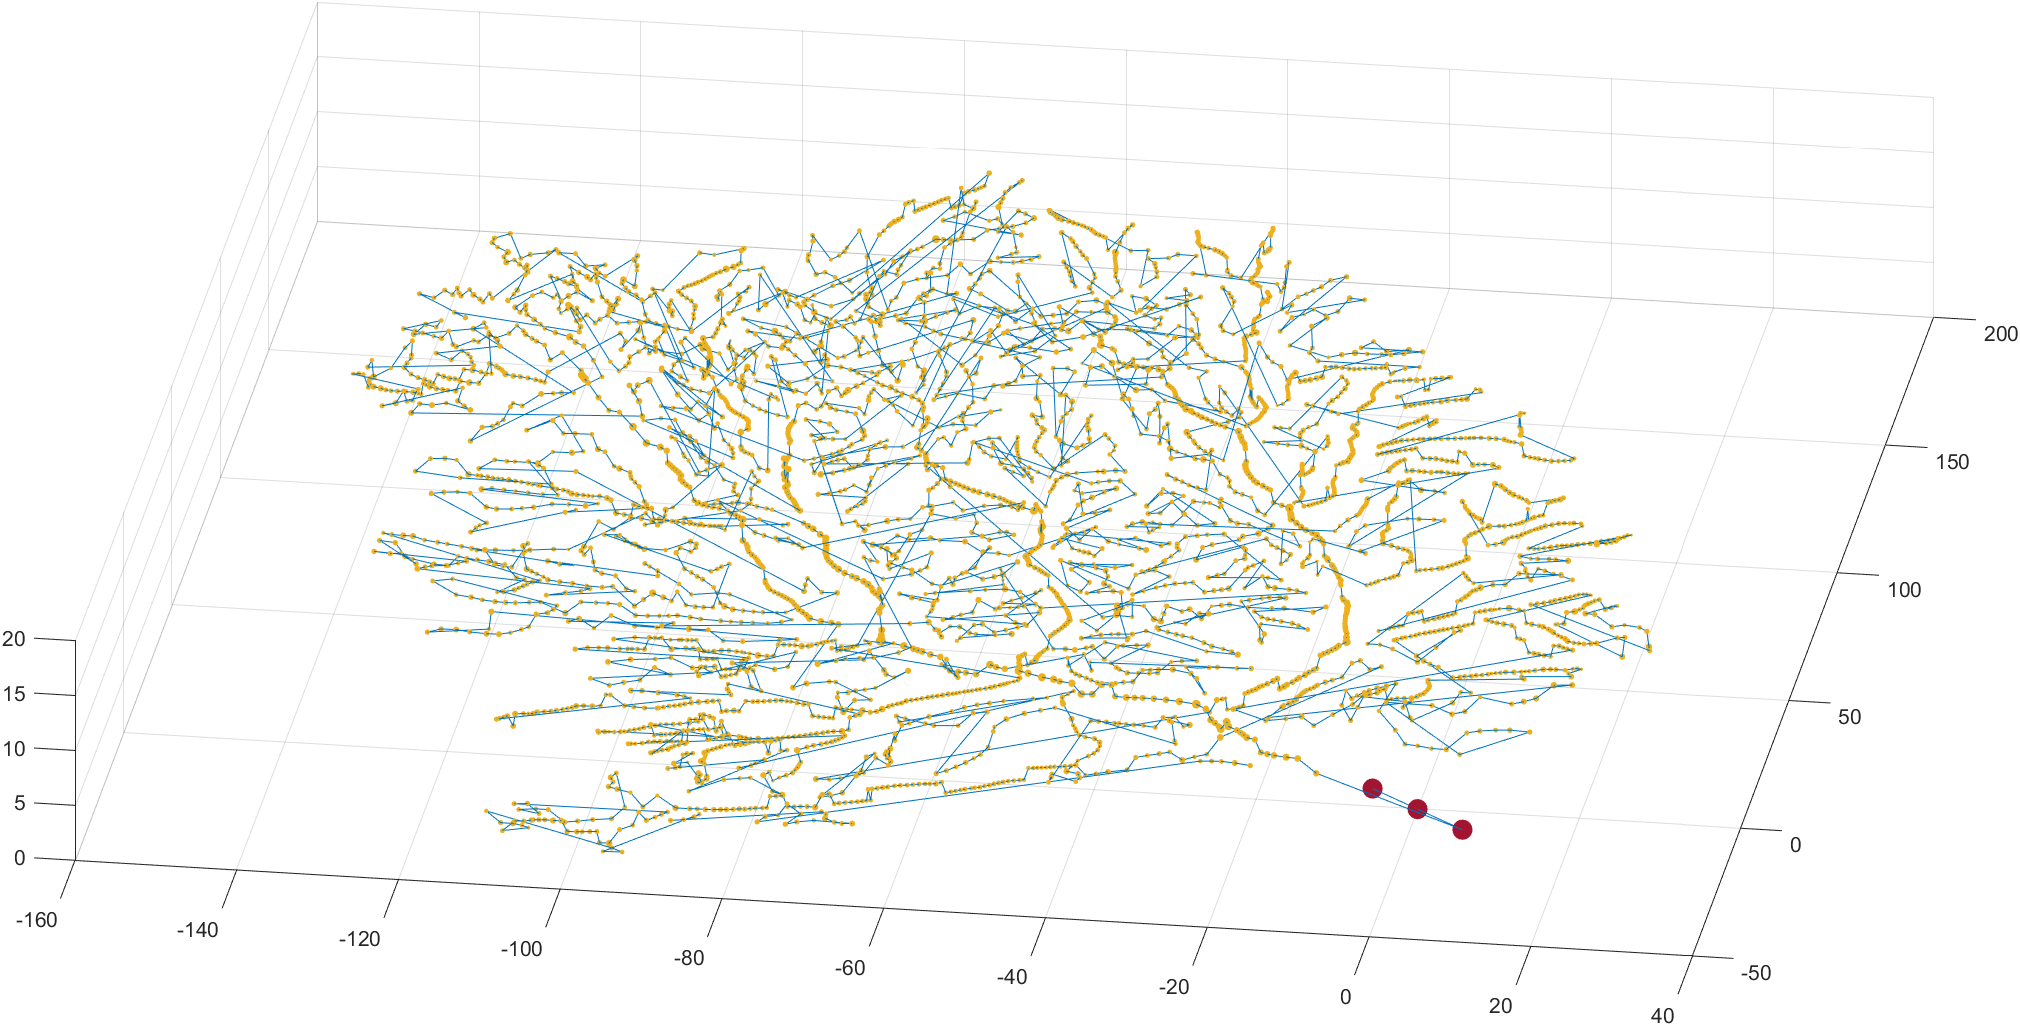
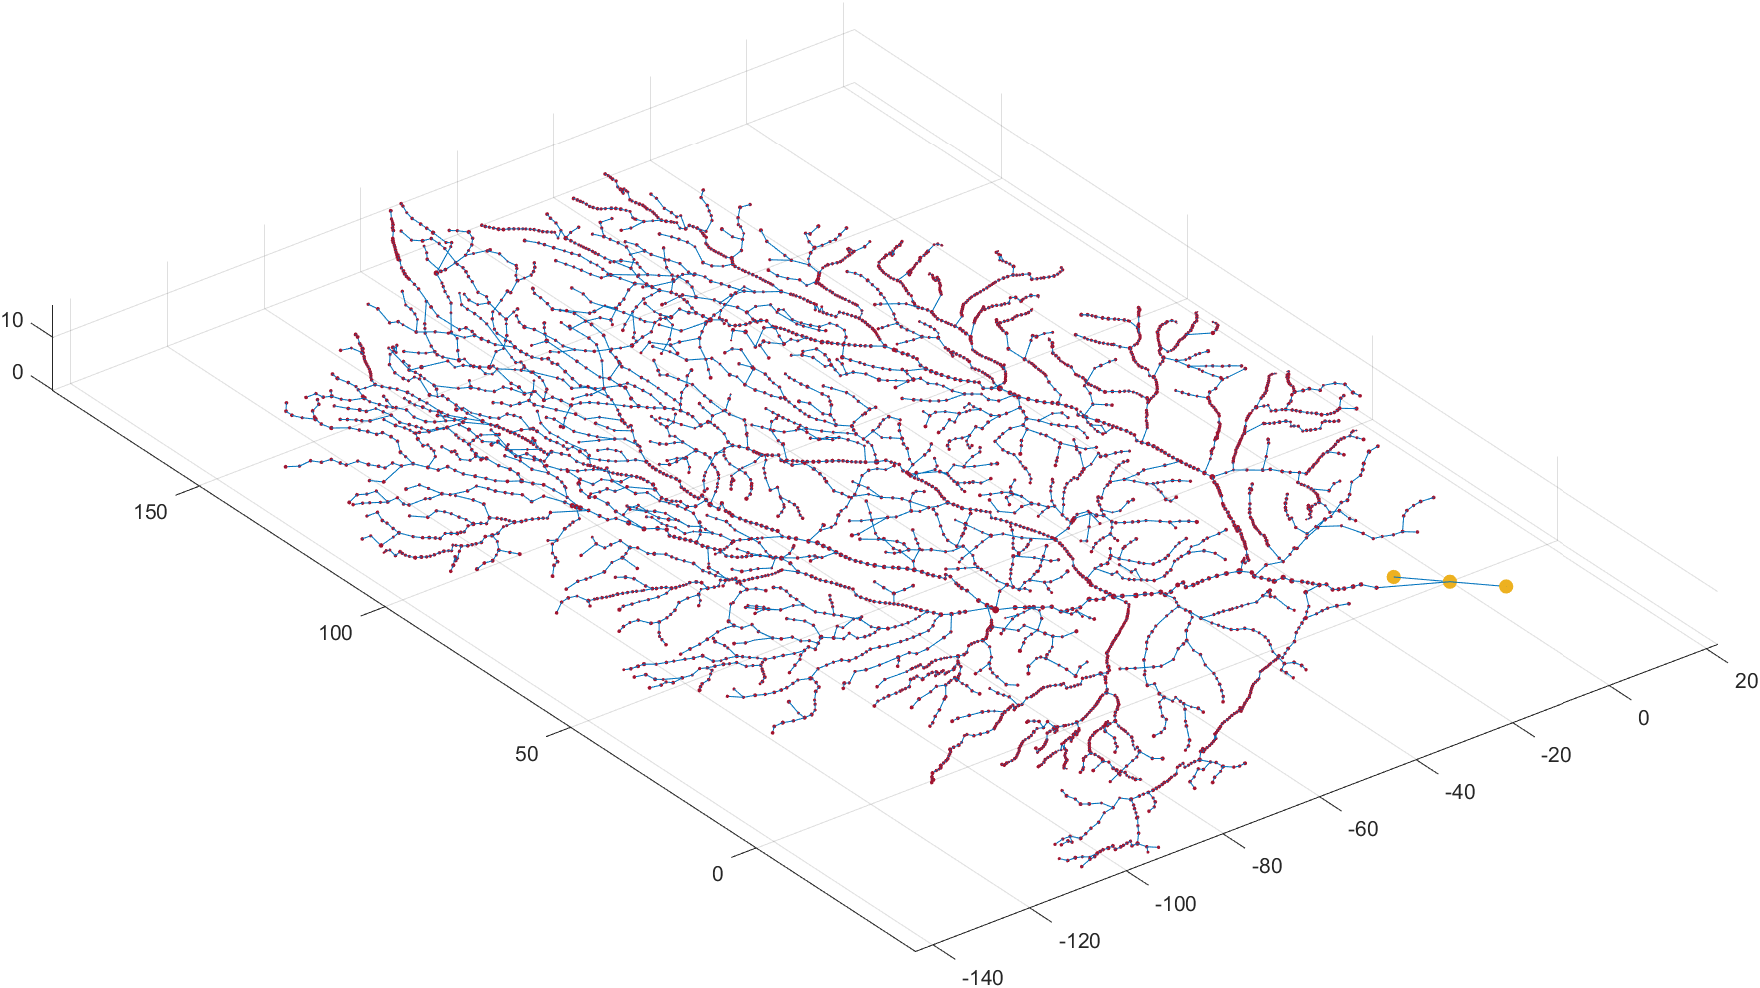
correct some errors

diff --git a/hw1/prob2_1and2_scatter.m b/hw1/prob2_1and2_scatter.m
@@ -1,9 +1,9 @@
 clear;close all;
 tic
 
-path = 'Purkinje-slice-ageP43-6.CNG.swc.txt';
+% path = 'Purkinje-slice-ageP43-6.CNG.swc.txt';
 % path = 'j8_L23pc.CNG.swc.txt';
-% path = '20150608_438NiE_fish01_ZCM_ROI1_ZCM_ZCM_warped.swc.txt';
+path = '20150608_438NiE_fish01_ZCM_ROI1_ZCM_ZCM_warped.swc.txt';
 
 [segment_index, segment_type, x_coord, y_coord, z_coord, segment_diameter, father_segment] = readvars(path);
 
@@ -14,7 +14,6 @@ segment_type = int8(segment_type);
 total = max(segment_index); % the number of whole points
 branching_mark = zeros(1, total); % to count how many points is connecting to one point with the exact index
 color = zeros(total, 3); % give different kind of cells different color
-is_branch = zeros(1, total); % to judge whether a point is a branching point
 
 size = 4 * pi / 3 .* segment_radius.^3;
 
@@ -39,13 +38,10 @@ scatter3(x_coord, y_coord, z_coord, segment_diameter * 5, color, 'filled');
 for i = 1:total
 
     if father_segment(i) > 0% exclude the cell body
-
-        branching_mark(i) = branching_mark(i) + 1;
-        branching_mark(father_segment(i)) = branching_mark(father_segment(i)) + 1;
         temp_x = [x_coord(i), x_coord(father_segment(i))];
         temp_y = [y_coord(i), y_coord(father_segment(i))];
         temp_z = [z_coord(i), z_coord(father_segment(i))];
-        line(x_coord, y_coord, z_coord);
+        line(temp_x, temp_y, temp_z);%connect segment point and its father segment point
     end
 
 end
@@ -53,4 +49,6 @@ end
 hold off
 
 view(3);
+grid on
+axis equal
 toc

diff --git a/hw1/prob2_1and2_sphere.m b/hw1/prob2_1and2_sphere.m
@@ -69,11 +69,12 @@ for i = 1:total
         temp_x = [x_coord(i), x_coord(father_segment(i))];
         temp_y = [y_coord(i), y_coord(father_segment(i))];
         temp_z = [z_coord(i), z_coord(father_segment(i))];
-        line(x_coord, y_coord, z_coord);
+        line(temp_x,temp_y,temp_z);%connect segment point and its father segment point
     end
 
 end
 
 hold off
-
+grid on
+axis equal
 toc
